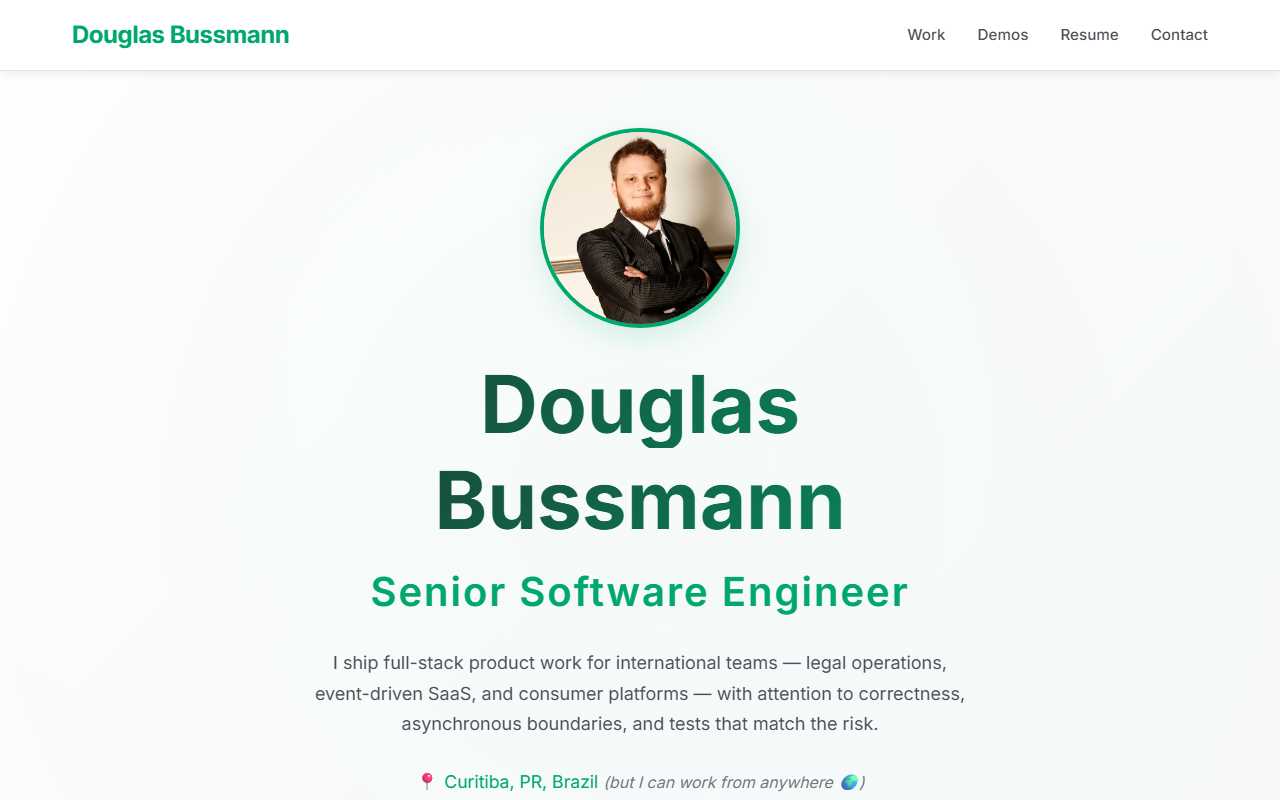
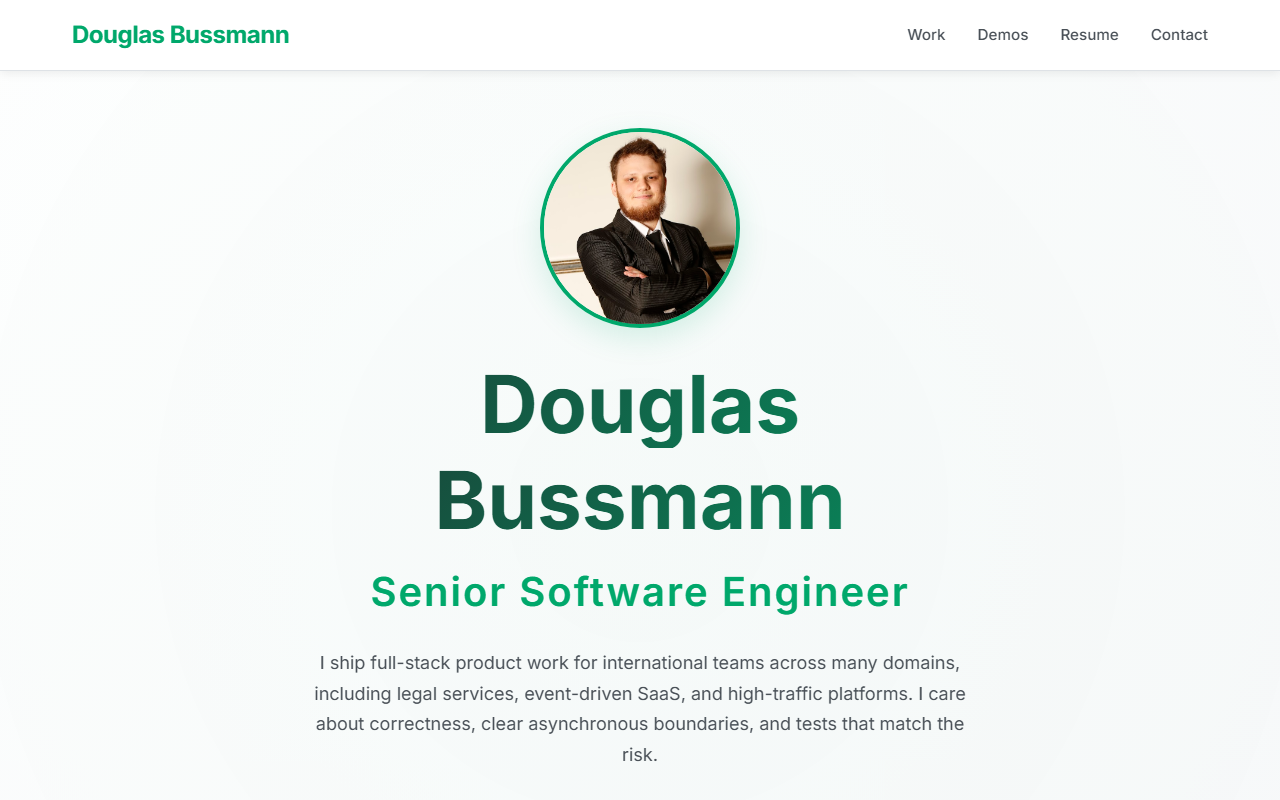
Polish portfolio copy and contact details
Replace em dashes, add a profile photo to the resume page, remove the phone number, drop the hero scroll indicator, and broaden the hero summary. Refresh the README screenshot.

Changed region(s): [[0.25, 0.8125, 0.75, 0.9375], [0.3438, 0.9688, 0.6875, 1.0]]

diff --git a/index.html b/index.html
@@ -3,9 +3,9 @@
 <head>
     <meta charset="UTF-8">
     <meta name="viewport" content="width=device-width, initial-scale=1.0">
-    <meta name="description" content="Douglas Bussmann — Senior Software Engineer. Selected work, interactive demos, and a full resume.">
+    <meta name="description" content="Douglas Bussmann, Senior Software Engineer. Selected work, interactive demos, and a full resume.">
     <meta name="keywords" content="Software Engineer, Node.js, TypeScript, Full-stack Developer, Senior Engineer">
-    <title>Douglas Bussmann — Senior Software Engineer</title>
+    <title>Douglas Bussmann | Senior Software Engineer</title>
     <link rel="stylesheet" href="styles/main.css">
     <link rel="preconnect" href="https://fonts.googleapis.com">
     <link rel="preconnect" href="https://fonts.gstatic.com" crossorigin>
@@ -45,7 +45,7 @@
                     <span class="name-last">Bussmann</span>
                 </h1>
                 <h2 class="hero-title">Senior Software Engineer</h2>
-                <p class="hero-lead">I ship full-stack product work for international teams — legal operations, event-driven SaaS, and consumer platforms — with attention to correctness, asynchronous boundaries, and tests that match the risk.</p>
+                <p class="hero-lead">I ship full-stack product work for international teams across many domains, including legal services, event-driven SaaS, and high-traffic platforms. I care about correctness, clear asynchronous boundaries, and tests that match the risk.</p>
                 <div class="hero-details">
                     <p class="hero-location">📍 <a href="https://en.wikipedia.org/wiki/Curitiba" target="_blank" rel="noopener noreferrer" class="hero-link">Curitiba, PR, Brazil</a> <span class="hero-location-note">(but I can work from anywhere 🌍)</span></p>
                 </div>
@@ -54,10 +54,6 @@
                     <a href="resume.html" class="btn btn-secondary">Resume</a>
                 </div>
             </div>
-        </div>
-        <div class="scroll-indicator">
-            <span>Scroll</span>
-            <div class="scroll-arrow"></div>
         </div>
     </section>
 
@@ -175,13 +171,6 @@
                         <div>
                             <strong>Location</strong>
                             <p><a href="https://en.wikipedia.org/wiki/Curitiba" target="_blank" rel="noopener noreferrer">Curitiba, PR, Brazil</a></p>
-                        </div>
-                    </div>
-                    <div class="contact-item">
-                        <span class="contact-icon">📞</span>
-                        <div>
-                            <strong>Phone</strong>
-                            <p><a href="tel:+5547988630011">+55 47 98863-0011</a></p>
                         </div>
                     </div>
                     <div class="contact-item">

diff --git a/styles/main.css b/styles/main.css
@@ -348,45 +348,6 @@ body {
     box-shadow: 0 10px 30px var(--shadow-green);
 }
 
-.scroll-indicator {
-    position: absolute;
-    bottom: 1rem;
-    left: 50%;
-    transform: translateX(-50%);
-    display: flex;
-    flex-direction: column;
-    align-items: center;
-    gap: 0.5rem;
-    color: var(--text-gray-light);
-    font-size: 0.875rem;
-    animation: bounce 2s infinite;
-    z-index: 10;
-}
-
-@keyframes bounce {
-    0%, 100% { transform: translateX(-50%) translateY(0); }
-    50% { transform: translateX(-50%) translateY(-10px); }
-}
-
-.scroll-arrow {
-    width: 2px;
-    height: 30px;
-    background: var(--primary-green);
-    position: relative;
-}
-
-.scroll-arrow::after {
-    content: '';
-    position: absolute;
-    bottom: 0;
-    left: -4px;
-    width: 10px;
-    height: 10px;
-    border-right: 2px solid var(--primary-green);
-    border-bottom: 2px solid var(--primary-green);
-    transform: rotate(45deg);
-}
-
 /* ============================================
    Sections
    ============================================ */
@@ -1055,7 +1016,6 @@ body {
    ============================================ */
 @media print {
     .navbar,
-    .scroll-indicator,
     .footer {
         display: none;
     }
@@ -1223,6 +1183,20 @@ body {
     color: var(--primary-green);
     font-size: clamp(2rem, 5vw, 3rem);
     line-height: 1.15;
+}
+
+.page-hero-photo {
+    margin-bottom: 1.25rem;
+}
+
+.page-hero-photo .hero-image,
+.page-hero-photo .hero-image-placeholder {
+    width: 140px;
+    height: 140px;
+}
+
+.page-hero-photo .hero-image-placeholder {
+    font-size: 2.75rem;
 }
 
 .page-hero .hero-title {

diff --git a/resume.html b/resume.html
@@ -4,7 +4,7 @@
     <meta charset="UTF-8">
     <meta name="viewport" content="width=device-width, initial-scale=1.0">
     <meta name="description" content="Resume of Douglas Bussmann, Senior Software Engineer. Experience, skills, education, and courses.">
-    <title>Resume — Douglas Bussmann</title>
+    <title>Resume | Douglas Bussmann</title>
     <link rel="stylesheet" href="styles/main.css">
     <link rel="preconnect" href="https://fonts.googleapis.com">
     <link rel="preconnect" href="https://fonts.gstatic.com" crossorigin>
@@ -32,11 +32,16 @@
 
     <header class="page-hero">
         <div class="container">
+            <div class="hero-image-wrapper page-hero-photo">
+                <img src="assets/profile.jpg" alt="Douglas Bussmann" class="hero-image" id="heroImage">
+                <div class="hero-image-placeholder" id="heroImagePlaceholder" style="display: none;">
+                    <span class="placeholder-initials">DB</span>
+                </div>
+            </div>
             <h1>Resume</h1>
             <p class="hero-title">Senior Software Engineer</p>
             <ul class="resume-contact">
                 <li><a href="https://en.wikipedia.org/wiki/Curitiba" target="_blank" rel="noopener noreferrer">Curitiba, PR, Brazil</a></li>
-                <li><a href="tel:+5547988630011">+55 47 98863-0011</a></li>
                 <li><a href="mailto:douglasfelipebs@hotmail.com">douglasfelipebs@hotmail.com</a></li>
                 <li><a href="https://www.linkedin.com/in/douglasfelipebs" target="_blank" rel="noopener noreferrer">LinkedIn</a></li>
             </ul>

diff --git a/scripts/main.js b/scripts/main.js
@@ -137,24 +137,6 @@ document.querySelectorAll('.fade-in').forEach(el => {
 });
 
 // ============================================
-// Hero Scroll Indicator Click
-// ============================================
-
-const scrollIndicator = document.querySelector('.scroll-indicator');
-if (scrollIndicator) {
-    scrollIndicator.addEventListener('click', () => {
-        const aboutSection = document.querySelector('#work') || document.querySelector('#about');
-        if (aboutSection) {
-            const offsetTop = aboutSection.offsetTop - 80;
-            window.scrollTo({
-                top: offsetTop,
-                behavior: 'smooth'
-            });
-        }
-    });
-}
-
-// ============================================
 // Performance Optimization
 // ============================================
 

diff --git a/work/legal-operations.html b/work/legal-operations.html
@@ -4,7 +4,7 @@
     <meta charset="UTF-8">
     <meta name="viewport" content="width=device-width, initial-scale=1.0">
     <meta name="description" content="Case study: full-stack systems for Torticity, a US legal services company, via BairesDev. AI-powered document processing and CRM integrations with about 160 law firms.">
-    <title>Legal services platform — Douglas Bussmann</title>
+    <title>Legal services platform | Douglas Bussmann</title>
     <link rel="stylesheet" href="../styles/main.css">
     <link rel="preconnect" href="https://fonts.googleapis.com">
     <link rel="preconnect" href="https://fonts.gstatic.com" crossorigin>

diff --git a/work/esports-product.html b/work/esports-product.html
@@ -4,7 +4,7 @@
     <meta charset="UTF-8">
     <meta name="viewport" content="width=device-width, initial-scale=1.0">
     <meta name="description" content="Case study: backend leadership at Gamers Club. Scalable services for a high-traffic SaaS platform, mentoring six engineers, and a 20% lift in key conversion metrics.">
-    <title>High-traffic platform — Douglas Bussmann</title>
+    <title>High-traffic platform | Douglas Bussmann</title>
     <link rel="stylesheet" href="../styles/main.css">
     <link rel="preconnect" href="https://fonts.googleapis.com">
     <link rel="preconnect" href="https://fonts.gstatic.com" crossorigin>

diff --git a/work/event-driven-platform.html b/work/event-driven-platform.html
@@ -4,7 +4,7 @@
     <meta charset="UTF-8">
     <meta name="viewport" content="width=device-width, initial-scale=1.0">
     <meta name="description" content="Case study: event-driven backend services for VOLL, a corporate travel and expense SaaS. GraphQL, Kafka, and travel booking integrations.">
-    <title>Corporate travel SaaS — Douglas Bussmann</title>
+    <title>Corporate travel SaaS | Douglas Bussmann</title>
     <link rel="stylesheet" href="../styles/main.css">
     <link rel="preconnect" href="https://fonts.googleapis.com">
     <link rel="preconnect" href="https://fonts.gstatic.com" crossorigin>

diff --git a/demos/ops-dashboard.html b/demos/ops-dashboard.html
@@ -4,7 +4,7 @@
     <meta charset="UTF-8">
     <meta name="viewport" content="width=device-width, initial-scale=1.0">
     <meta name="description" content="Interactive demo: a fictional operations list with search, status filters, a detail panel, and loading, empty, and error states.">
-    <title>Ops dashboard — Douglas Bussmann</title>
+    <title>Ops dashboard | Douglas Bussmann</title>
     <link rel="stylesheet" href="../styles/main.css">
     <link rel="preconnect" href="https://fonts.googleapis.com">
     <link rel="preconnect" href="https://fonts.gstatic.com" crossorigin>

diff --git a/demos/testing-lab.html b/demos/testing-lab.html
@@ -4,7 +4,7 @@
     <meta charset="UTF-8">
     <meta name="viewport" content="width=device-width, initial-scale=1.0">
     <meta name="description" content="Interactive demo: choose unit, integration, or end-to-end for three bugs, and see which layer should catch each one.">
-    <title>Testing lab — Douglas Bussmann</title>
+    <title>Testing lab | Douglas Bussmann</title>
     <link rel="stylesheet" href="../styles/main.css">
     <link rel="preconnect" href="https://fonts.googleapis.com">
     <link rel="preconnect" href="https://fonts.gstatic.com" crossorigin>

diff --git a/demos/event-pipeline.html b/demos/event-pipeline.html
@@ -4,7 +4,7 @@
     <meta charset="UTF-8">
     <meta name="viewport" content="width=device-width, initial-scale=1.0">
     <meta name="description" content="Interactive demo: a fictional queue with retries and a dead letter. A model of Kafka and SQS/SNS behavior.">
-    <title>Event pipeline — Douglas Bussmann</title>
+    <title>Event pipeline | Douglas Bussmann</title>
     <link rel="stylesheet" href="../styles/main.css">
     <link rel="preconnect" href="https://fonts.googleapis.com">
     <link rel="preconnect" href="https://fonts.gstatic.com" crossorigin>

diff --git a/README.md b/README.md
@@ -1,4 +1,4 @@
-# Douglas Bussmann — Portfolio
+# Douglas Bussmann: Portfolio
 
 A static portfolio for hiring conversations: selected work, three browser demos, and a full resume. Light theme, no build step.
 
